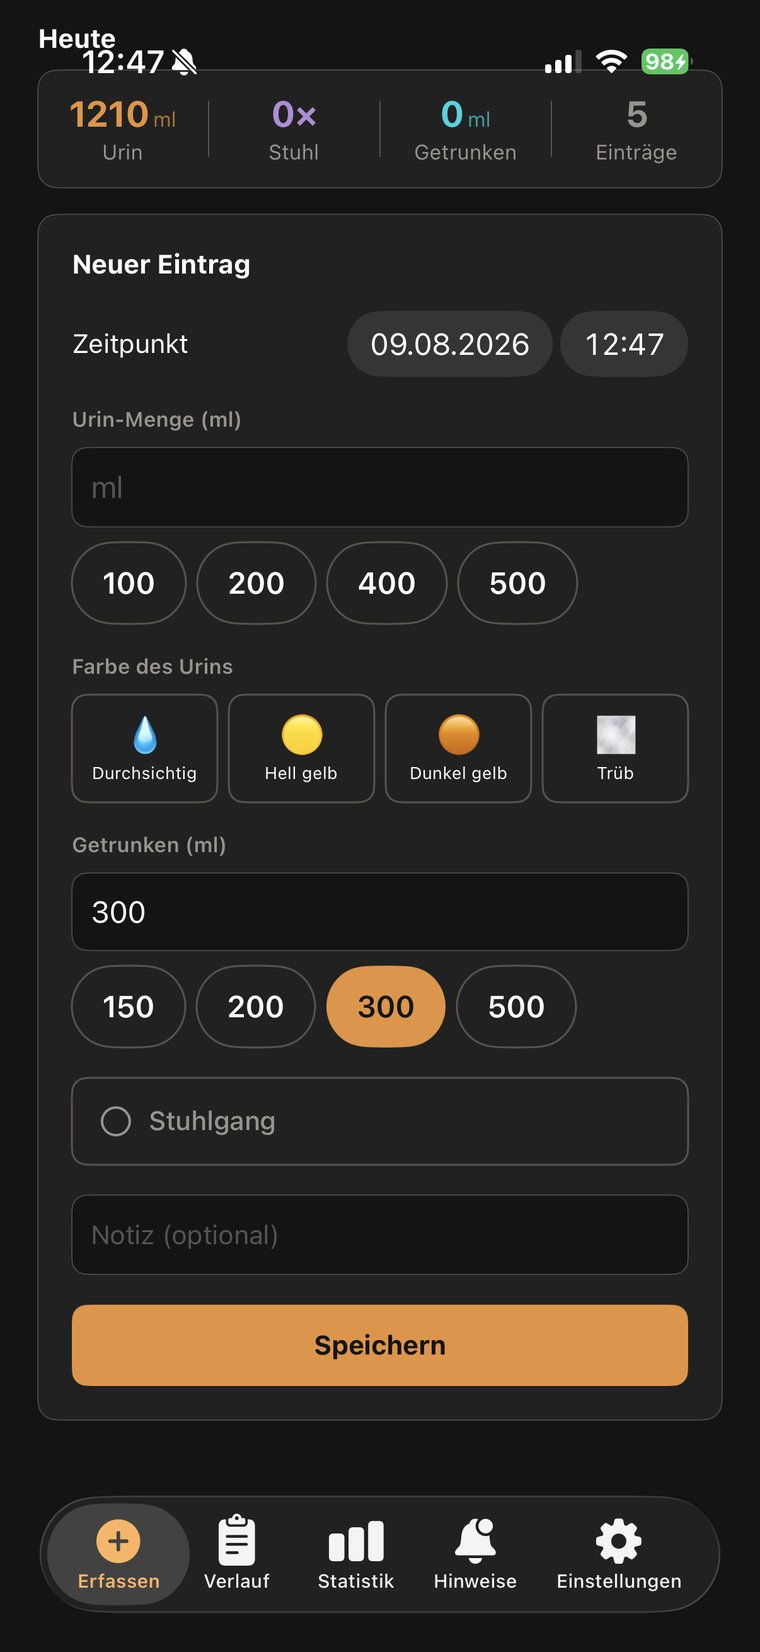
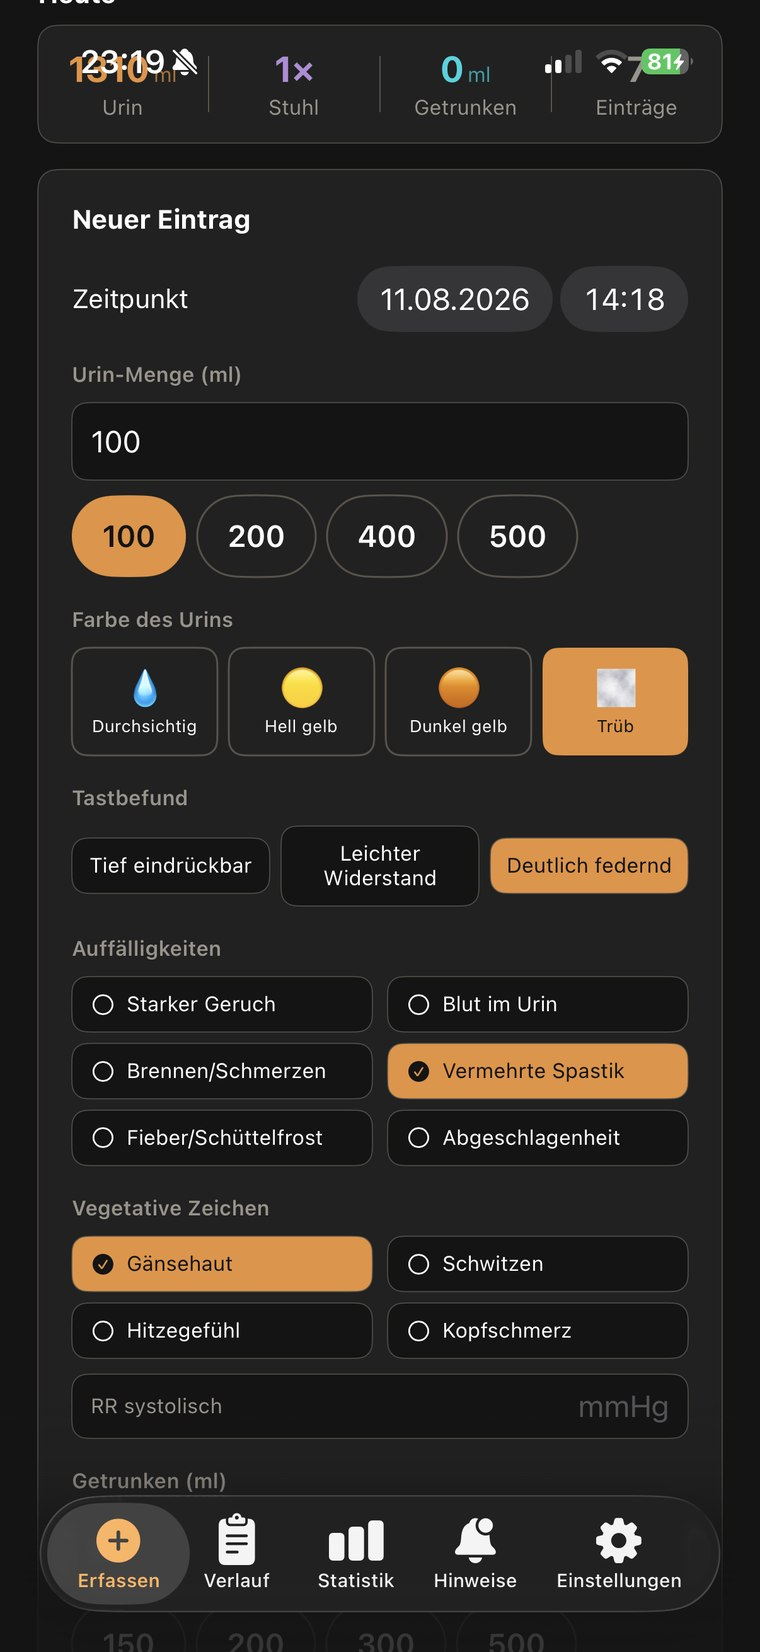
4.3: Galerie-Screenshots Erfassen, Statistik und Verlauf erneuert (ISK-Felder, Detailzeilen)

diff --git a/index.html b/index.html
@@ -152,15 +152,15 @@
     <p class="section__label">Aus der App</p>
     <div class="shots">
       <figure>
-        <img src="/assets/shot-start.jpg" alt="Startbildschirm mit Tageswerten für Urin, Stuhl und Getrunken sowie der Eingabemaske" loading="lazy" width="760" height="1652">
-        <figcaption>Beim Öffnen: Tagesstand und Eintrag — mit Getrunken, wenn du es einschaltest.</figcaption>
+        <img src="/assets/shot-start.jpg" alt="Eingabemaske mit Urinfarbe, Tastbefund, Auffälligkeiten und vegetativen Zeichen" loading="lazy" width="760" height="1652">
+        <figcaption>Der Eintrag — mit Tastbefund, Auffälligkeiten und vegetativen Zeichen, wenn du sie einschaltest.</figcaption>
       </figure>
       <figure>
-        <img src="/assets/shot-statistik.jpg" alt="Statistik mit Wochenbalken, Tagesübersicht und den Exportknöpfen für CSV und PDF" loading="lazy" width="760" height="1652">
-        <figcaption>Wochenwerte, Toilettengänge — und der Export als CSV oder PDF.</figcaption>
+        <img src="/assets/shot-statistik.jpg" alt="Statistik mit Katheterbestand, Auffälligkeiten im Zeitraum und Wochenbalken" loading="lazy" width="760" height="1652">
+        <figcaption>Wochenwerte, Katheterbestand und Auffälligkeiten — auf einen Blick.</figcaption>
       </figure>
       <figure>
-        <img src="/assets/shot-verlauf.jpg" alt="Verlaufsansicht mit den Einträgen von heute und gestern" loading="lazy" width="760" height="1652">
+        <img src="/assets/shot-verlauf.jpg" alt="Verlaufsansicht mit Detailzeilen zu Tastbefund und Auffälligkeiten" loading="lazy" width="760" height="1652">
         <figcaption>Der Verlauf des Tages und der Tage davor.</figcaption>
       </figure>
       <figure>

diff --git a/en/index.html b/en/index.html
@@ -150,15 +150,15 @@
     <p class="section__label">Inside the app</p>
     <div class="shots">
       <figure>
-        <img src="/assets/shot-start.jpg" alt="Start screen with daily totals for urine, stool and fluids plus the entry form" loading="lazy" width="760" height="1652">
+        <img src="/assets/shot-start.jpg" alt="Entry form with urine colour, palpation check, signs and autonomic symptoms" loading="lazy" width="760" height="1652">
         <figcaption>On launch: today at a glance and the entry — with fluids, if you switch them on.</figcaption>
       </figure>
       <figure>
-        <img src="/assets/shot-statistik.jpg" alt="Statistics with weekly bars, a daily overview and the export buttons for CSV and PDF" loading="lazy" width="760" height="1652">
+        <img src="/assets/shot-statistik.jpg" alt="Statistics with catheter supply, signs in the period and weekly bars" loading="lazy" width="760" height="1652">
         <figcaption>Weekly figures, toilet visits — and export as CSV or PDF.</figcaption>
       </figure>
       <figure>
-        <img src="/assets/shot-verlauf.jpg" alt="History view with today's and yesterday's entries" loading="lazy" width="760" height="1652">
+        <img src="/assets/shot-verlauf.jpg" alt="History view with detail lines for palpation and signs" loading="lazy" width="760" height="1652">
         <figcaption>The day's history, and the days before.</figcaption>
       </figure>
       <figure>
